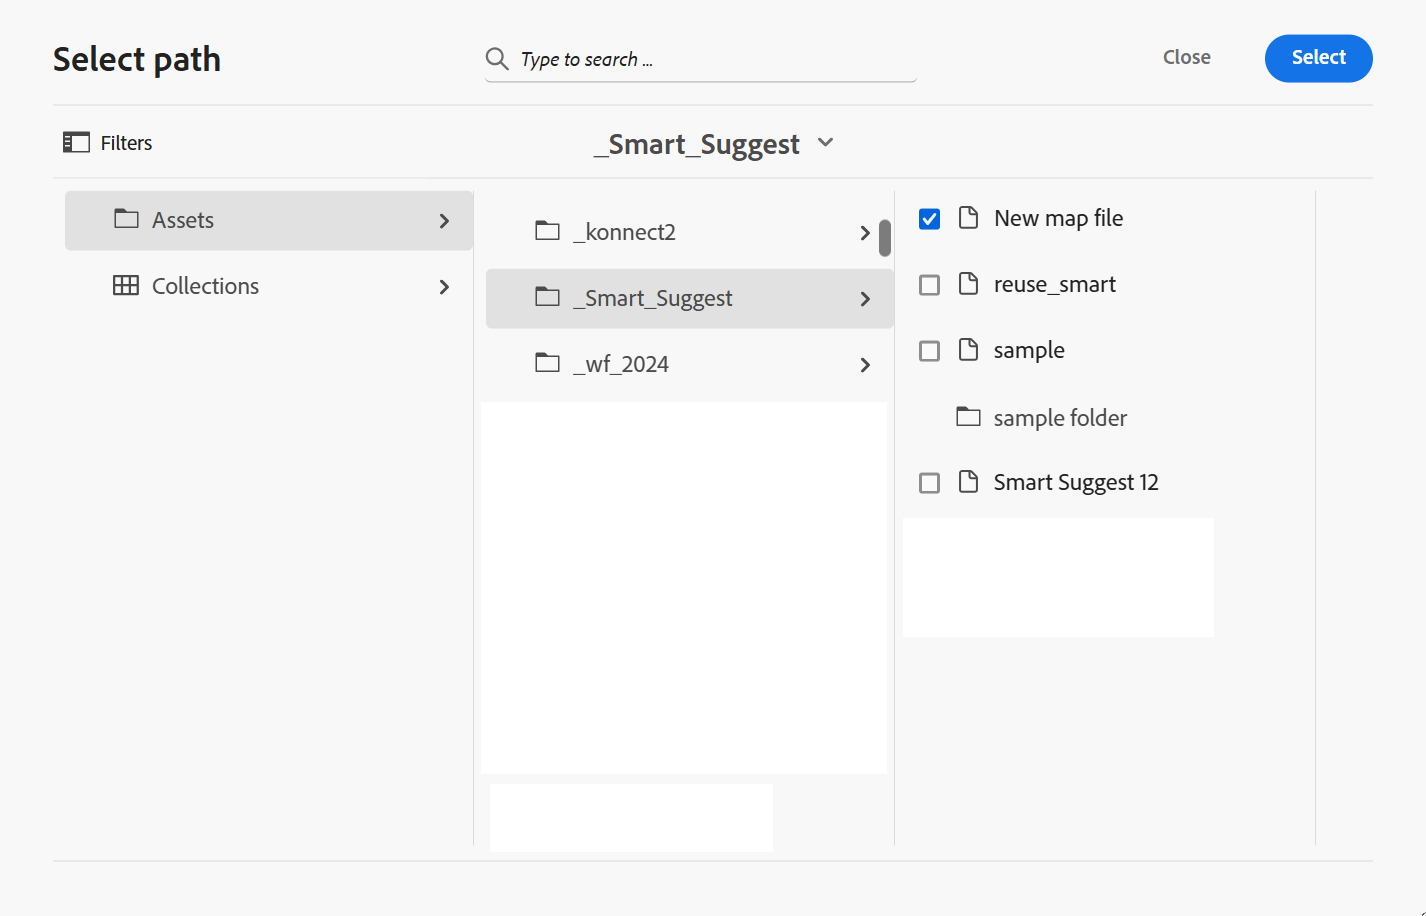
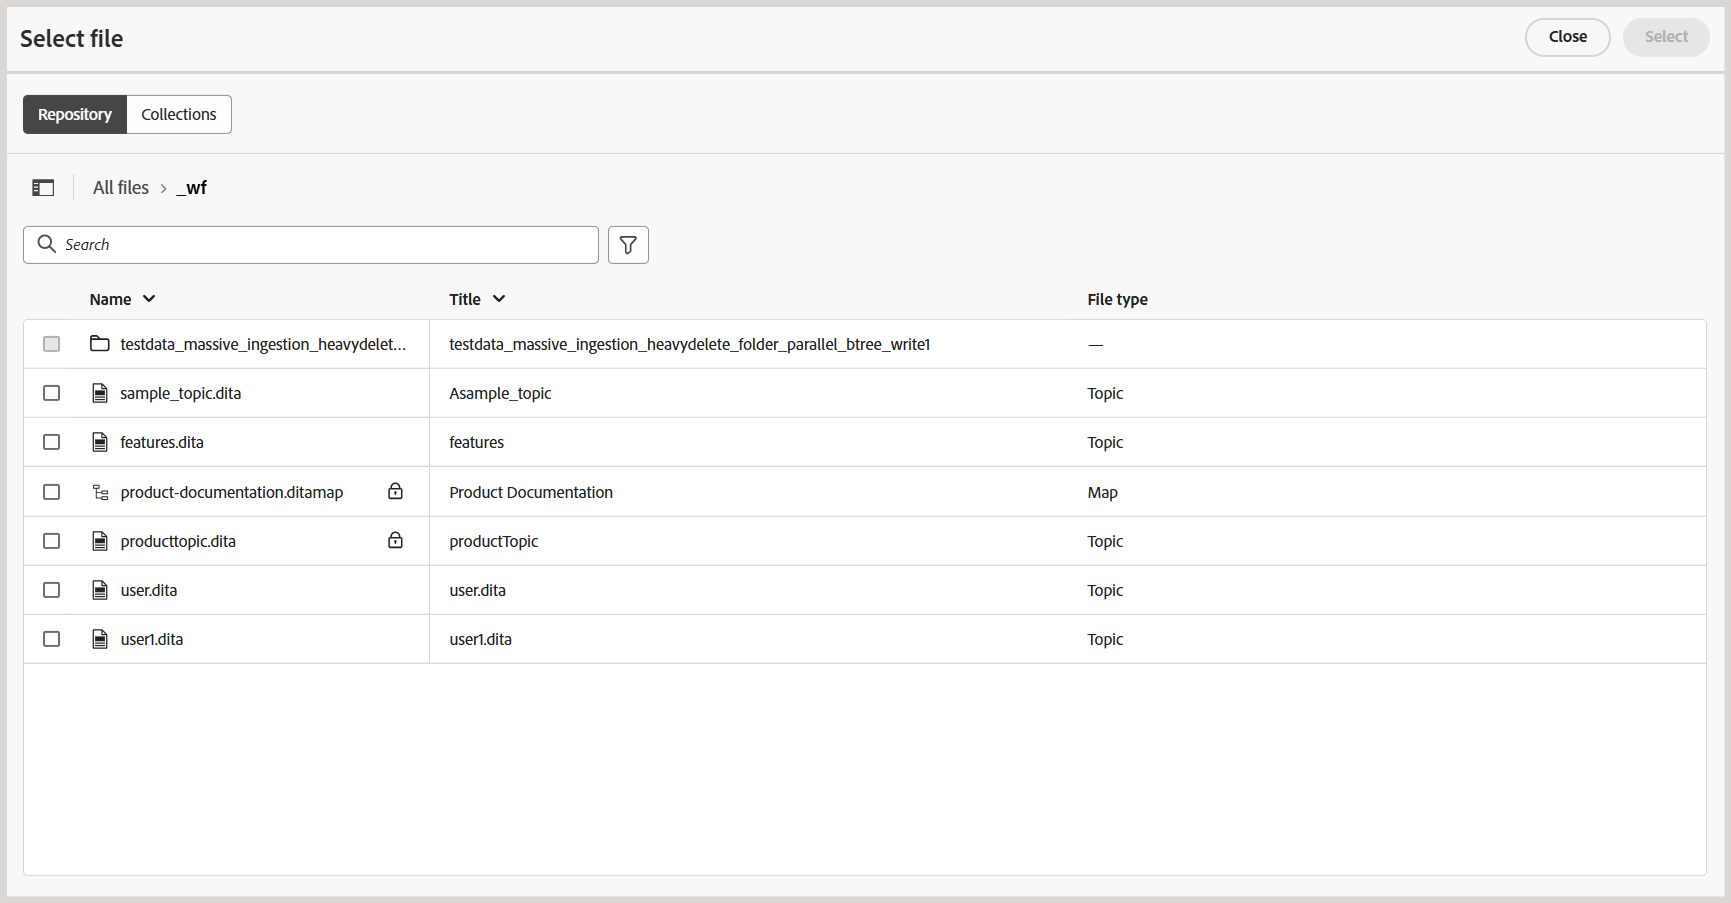
Updated docs
Advanced map editor, left panel, wf

diff --git a/help/product-guide/user-guide/web-editor-left-panel.md b/help/product-guide/user-guide/web-editor-left-panel.md
@@ -222,18 +222,19 @@ You can perform the following actions using the Options menu available for a *fo
     <summary> Steps to create a new topic </summary>
 
 Steps to create a new topic:
+
    1. Select **New** > **Topic**.
-   2. The **New topic** dialog box is displayed.
+   1. The **New topic** dialog box is displayed.
     
         ![](images/create-topic-dialog.png){width="300" align="left"}
 
-   3. In the **New topic** dialog box, provide the following details:
+   1. In the **New topic** dialog box, provide the following details:
         - A Title for the topic.
         - \(Optional\)* The file name for the topic. The file name is auto-suggested based on the topic Title. In case your administrator has enabled automatic file names based on UUID setting, then you will not view the Name field.
         - A template on which the topic will be based. For example, for an out-of-the-box setup, you can choose from the Blank, Concept, DITAVAL, Reference, Task, Topic, Markdown, Glossary, and Troubleshooting templates. If your folder has a Folder Profile configured on it, then you will view only those topic templates that are configured on the Folder profile.
 
         - Path where you want to save the topic file. By default, the path of currently selected folder in the repository is shown in the Path field.    
-    4. Select **Create**. The topic is created at the specified path. Also, the topic is opened in the Editor for editing.
+    1. Select **Create**. The topic is created at the specified path. Also, the topic is opened in the Editor for editing.
 
 </details>
 
@@ -610,8 +611,13 @@ By default, you can view the files by titles. As you hover over a file, you can 
 
 To add a DITA file to your Reusable content panel, use any of the following methods:
 
-- Select the **+** icon next to Reusable content to open the browse file dialog box. Select the file that you want to add and then select **Add** to complete the process.
+- Select the **+** icon next to Reusable content to open the **Select file** dialog. Select the file that you want to add and then choose **Select**. 
 
+    ![](images/reusable-content-selection-left-panel.png){width="650" align="left"}
+    
+    You can also use the **Remove** icon to deselect some files from the Preview. 
+
+    ![](images/resusable-content-remove-preview.png){width="650" align="left"}
 - In the Repository view, select the **Options** icon of the desired file and choose **Add to** > **Reusable content** from the context menu.
 
 - Right-click on a file's tab in the editor to open the context menu and choose **Add to** > **Reusable content**.

diff --git a/help/product-guide/user-guide/workfront-integration.md b/help/product-guide/user-guide/workfront-integration.md
@@ -82,7 +82,7 @@ Perform the following steps to create a new Adobe Workfront task:
 
      The **Select path** dialog is displayed. Select a path to the required asset. You can add multiple assets by selecting the valid paths in the path browser. Your selected paths will be retained, allowing you to easily review or modify them when you reopen the dialog.
          
-    * For authoring, publishing, and translation tasks, you are prompted to select the location of the required file in the **Select path** dialog box. The selected file (a topic for authoring and map for publishing and translation) is added to the task as soon as the **Create** button is selected.
+    * For authoring, publishing, and translation tasks, you are prompted to select the location of the required file in the **Select file** dialog. The selected file (a topic for authoring and map for publishing and translation) is added to the task as soon as the **Create** button is selected.
 
         ![](./images/attach-asset.png){align="left"}
     

diff --git a/help/product-guide/user-guide/map-editor-advanced-map-editor.md b/help/product-guide/user-guide/map-editor-advanced-map-editor.md
@@ -30,7 +30,7 @@ The following options are available on the toolbar in the Layout view:
 
 **Topic reference** - ![](images/topic-reference.svg)
 
-Displays the topic search dialog. Navigate to the topic/map file that you want to insert and choose **Select** to add it to the map. 
+Displays the Select file dialog. Navigate to the topic/map file that you want to insert and choose **Select** to add it to the map. 
 
 ![](images/insert-topic-reference-dialog.png){align="left"}
 
